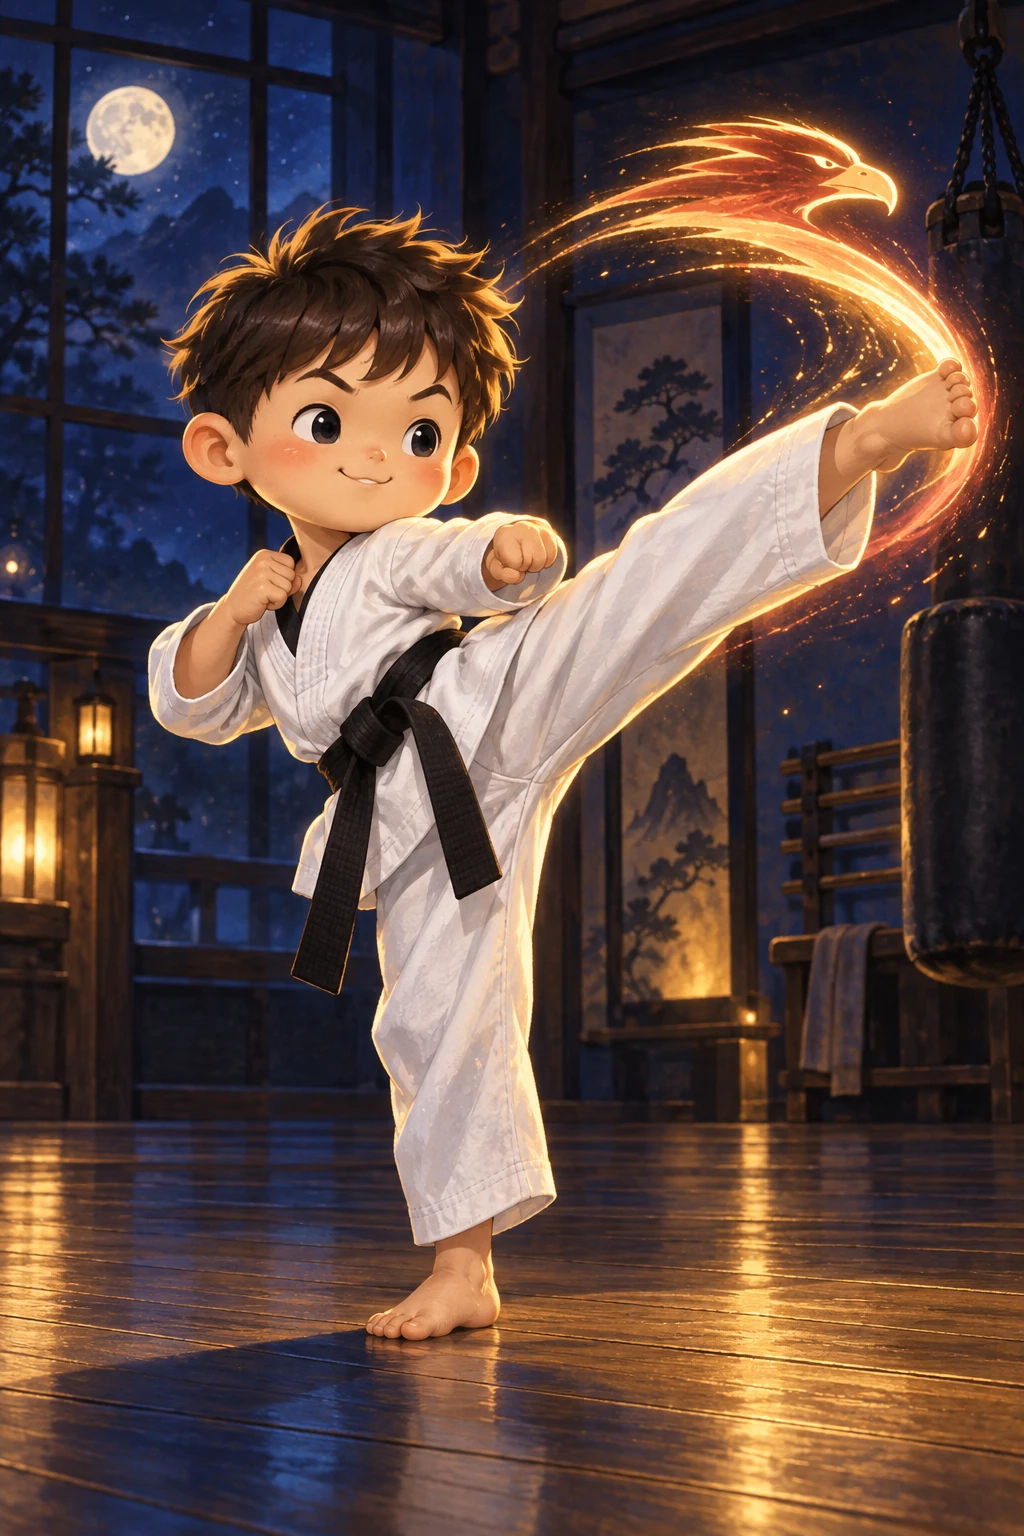
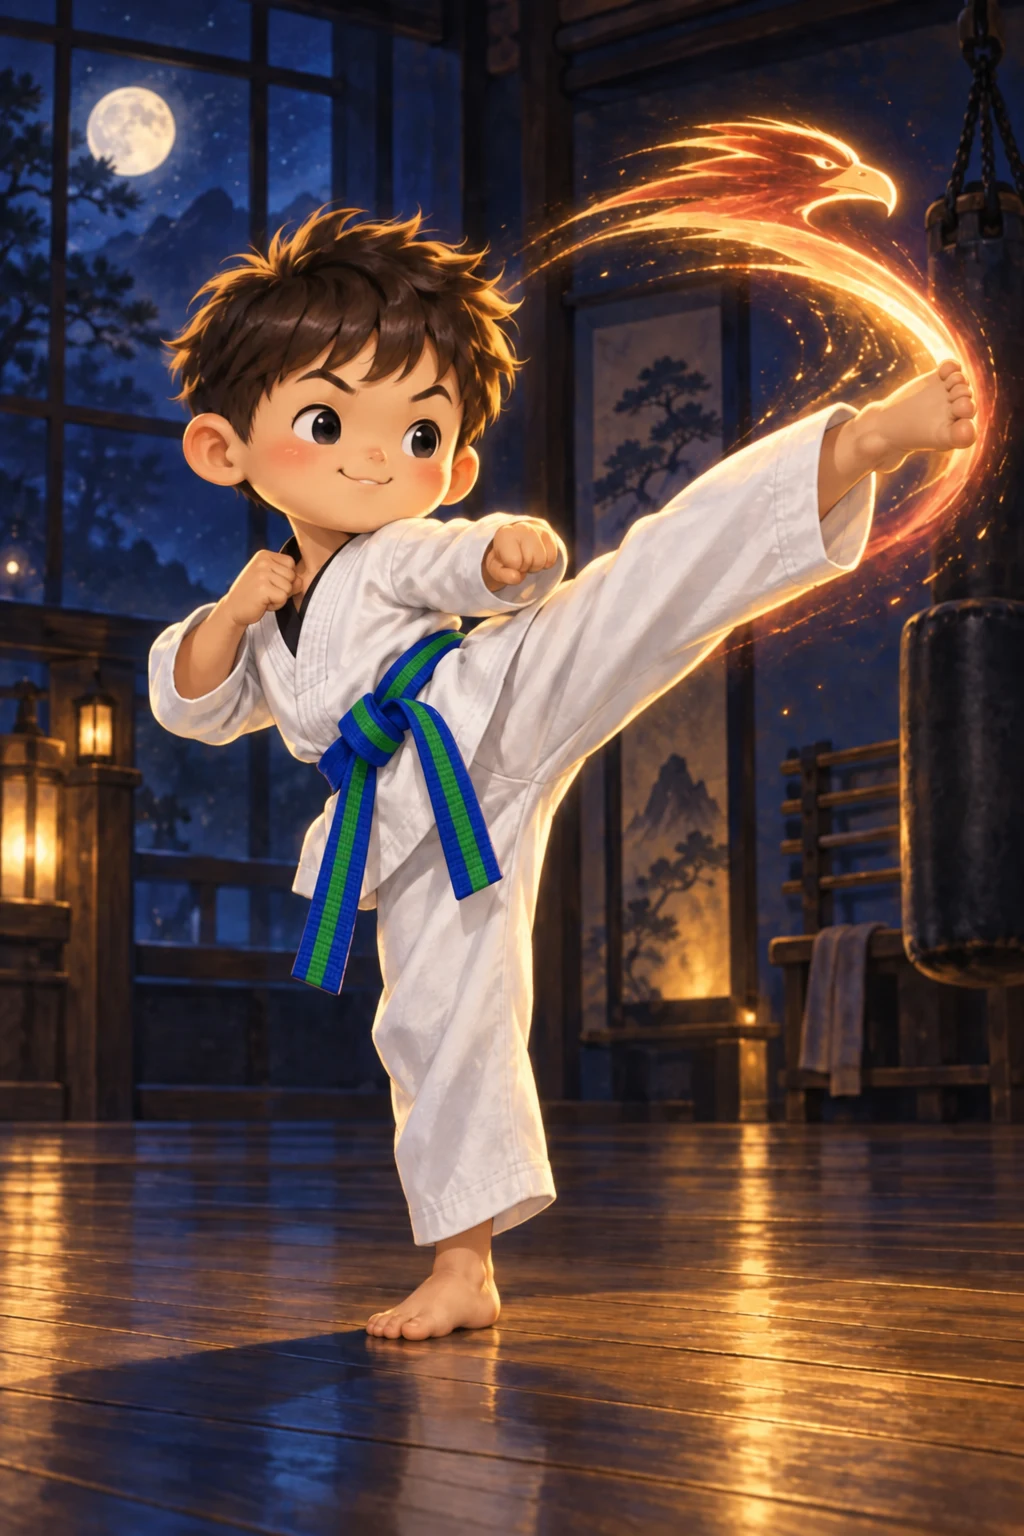
Refresh Jaewing and Taeo portraits and advance cache to v105

diff --git a/cards/index.html b/cards/index.html
@@ -17,8 +17,8 @@ document.addEventListener('dblclick',s,{passive:false});})();</script>
   <link rel="icon" href="../icon.png">
   <link rel="apple-touch-icon" href="../icon.png">
   <link rel="manifest" href="../manifest.json">
-<link rel="stylesheet" href="styles.css?v=60">
-<link rel="stylesheet" href="campaign.css?v=60">
+<link rel="stylesheet" href="styles.css?v=62">
+<link rel="stylesheet" href="campaign.css?v=62">
 </head>
 <body>
   <div class="sky" aria-hidden="true">
@@ -207,15 +207,15 @@ document.addEventListener('dblclick',s,{passive:false});})();</script>
   </dialog>
 
   <noscript>J&amp;T Adventure를 하려면 JavaScript를 켜 주세요.</noscript>
-<script src="js/engine.js?v=60" defer></script>
-<script src="js/audio.js?v=60" defer></script>
-<script src="js/card-view.js?v=60" defer></script>
-<script src="js/vfx-recipes.js?v=60" defer></script>
-<script src="js/story-gates.js?v=60" defer></script>
-<script src="js/campaign.js?v=60" defer></script>
-<script src="js/campaign-ui.js?v=60" defer></script>
-<script src="js/combat-cinema.js?v=60" defer></script>
-<script src="js/app.js?v=60" defer></script>
+<script src="js/engine.js?v=62" defer></script>
+<script src="js/audio.js?v=62" defer></script>
+<script src="js/card-view.js?v=62" defer></script>
+<script src="js/vfx-recipes.js?v=62" defer></script>
+<script src="js/story-gates.js?v=62" defer></script>
+<script src="js/campaign.js?v=62" defer></script>
+<script src="js/campaign-ui.js?v=62" defer></script>
+<script src="js/combat-cinema.js?v=62" defer></script>
+<script src="js/app.js?v=62" defer></script>
   <script>
     if ("serviceWorker" in navigator) {
       window.addEventListener("load", function () {

diff --git a/cards/tests/pwa.test.js b/cards/tests/pwa.test.js
@@ -114,9 +114,9 @@ test("all story episode mp3 files match the service worker fallback list", () =>
   }
 });
 
-test("cache generation v101 preserves exact v60 card assets and canonical navigation aliases", () => {
-  assert.equal(sw.CACHE_VERSION, "v104");
-  assert.match(sw.STATIC_CACHE, /^adventure-box-v104-/);
+test("cache generation v105 preserves exact v62 card assets and canonical navigation aliases", () => {
+  assert.equal(sw.CACHE_VERSION, "v105");
+  assert.match(sw.STATIC_CACHE, /^adventure-box-v105-/);
   const studioImages = fs.readdirSync(path.join(siteRoot, "princess/assets/studio-v3")).filter(name => /\.(webp|jpg)$/.test(name));
   assert.equal(studioImages.length, 95);
   for (const name of studioImages) assert.ok(sw.OPTIONAL_SHELL.includes("./princess/assets/studio-v3/" + name), name);
@@ -132,7 +132,7 @@ test("cache generation v101 preserves exact v60 card assets and canonical naviga
     assert.ok(sw.OPTIONAL_SHELL.includes("./princess/assets/bodies-v4/body-" + id + ".webp"));
   }
   for (const asset of ["styles.css", "campaign.css", "engine.js", "audio.js", "card-view.js", "vfx-recipes.js", "story-gates.js", "campaign.js", "campaign-ui.js", "combat-cinema.js", "app.js"]) {
-    assert.ok(sw.CORE_SHELL.some(entry => entry.endsWith(asset + "?v=60")), asset);
+    assert.ok(sw.CORE_SHELL.some(entry => entry.endsWith(asset + "?v=62")), asset);
   }
   assert.doesNotMatch(swSource, /\.\/cards\/[^"\n]+\?v=(?:19|2\d|30|31)|adventure-box-v(?:19|2\d|3\d|4\d|5\d|6[0-5])-/);
   assert.deepEqual(sw.VFX_ART_FILES, [

diff --git a/sw.js b/sw.js
@@ -1,7 +1,7 @@
 "use strict";
 
 // Advance this generation whenever a shared shell or optional game's immutable assets change.
-const CACHE_VERSION = "v104";
+const CACHE_VERSION = "v105";
 const CACHE_PREFIX = "adventure-box-";
 const STATIC_CACHE = `${CACHE_PREFIX}${CACHE_VERSION}-static`;
 const RUNTIME_CACHE = `${CACHE_PREFIX}${CACHE_VERSION}-runtime`;
@@ -148,19 +148,19 @@ const CORE_SHELL = [
   "./story/index.html",
   "./cards/",
   "./cards/index.html",
-  "./cards/styles.css?v=60",
+  "./cards/styles.css?v=62",
   "./math/assets/jaei-family-v4.webp",
-  "./cards/campaign.css?v=60",
+  "./cards/campaign.css?v=62",
   "./cards/cards.json",
-  "./cards/js/engine.js?v=60",
-  "./cards/js/audio.js?v=60",
-  "./cards/js/card-view.js?v=60",
-  "./cards/js/vfx-recipes.js?v=60",
-  "./cards/js/story-gates.js?v=60",
-  "./cards/js/campaign.js?v=60",
-  "./cards/js/campaign-ui.js?v=60",
-  "./cards/js/app.js?v=60",
-  "./cards/js/combat-cinema.js?v=60",
+  "./cards/js/engine.js?v=62",
+  "./cards/js/audio.js?v=62",
+  "./cards/js/card-view.js?v=62",
+  "./cards/js/vfx-recipes.js?v=62",
+  "./cards/js/story-gates.js?v=62",
+  "./cards/js/campaign.js?v=62",
+  "./cards/js/campaign-ui.js?v=62",
+  "./cards/js/app.js?v=62",
+  "./cards/js/combat-cinema.js?v=62",
 ];
 
 // Existing games are precached as best-effort shells. A missing optional asset

diff --git a/cards/tests/taeo-belt.test.js b/cards/tests/taeo-belt.test.js
@@ -1,0 +1,12 @@
+"use strict";
+const test=require('node:test'),assert=require('node:assert/strict'),fs=require('node:fs'),path=require('node:path'),vm=require('node:vm');
+const root=path.resolve(__dirname,'..');
+test('Taeo belt quiz uses the clarified blue base with green stripe, not a black belt',()=>{
+ const box={window:{}};vm.runInNewContext(fs.readFileSync(path.join(root,'js/story-gates.js'),'utf8'),box);
+ const bank=box.window.CardStoryGates.all.filter(q=>q.cardId==='taeo'),q=bank.find(q=>q.id==='taeo-belt');
+ assert.equal(bank.length,5);assert.equal(q.correctChoiceId,'blue-green');assert.equal(q.choices.find(c=>c.id===q.correctChoiceId).text,'파란 바탕에 초록 줄이 있는 띠');
+ assert.ok(q.source.refs.some(ref=>ref.includes('도복은 흰색')));
+ const png=fs.readFileSync(path.join(root,'art/taeo.png'));assert.equal(png.readUInt32BE(16),1024);assert.equal(png.readUInt32BE(20),1536);
+ assert.equal(fs.readFileSync(path.join(root,'art/taeo.webp')).toString('ascii',8,12),'WEBP');
+ const campaign=fs.readFileSync(path.join(root,'js/campaign-ui.js'),'utf8');assert.match(campaign,/\["appa", "eomma", "jaei", "taeo"\]/);
+});

diff --git a/cards/tests/collection-compact.test.js b/cards/tests/collection-compact.test.js
@@ -244,9 +244,9 @@ test("양쪽 전투 카드가 같은 전투 정보 렌더러를 사용하고 카
   assert.match(app, /syncBattleCard\(dom\.enemyCardSlot/);
   assert.match(app, /CardView\.create\(side\.card, \{[\s\S]*?compact: true/);
   assert.match(viewSource, /else if \(options\.compact\) \{[\s\S]*?crown, facts, art/);
-  assert.equal((html.match(/\?v=60/g) || []).length, 11);
+  assert.equal((html.match(/\?v=62/g) || []).length, 11);
   assert.doesNotMatch(html, /\?v=(?:25|26|27|28|29|30|31)/);
-  assert.equal((sw.match(/\.\/cards\/[^"\n]+\?v=60/g) || []).length, 11);
+  assert.equal((sw.match(/\.\/cards\/[^"\n]+\?v=62/g) || []).length, 11);
 });
 
 test("오행 속성이 카드 클래스, 원화 배지와 접근성 이름에 함께 드러난다", () => {

diff --git a/cards/js/story-gates.js b/cards/js/story-gates.js
@@ -824,8 +824,8 @@
       ["가족 확인 2026-09-09"]),
     question("taeo-belt", "taeo",
       "태오가 태권도복에 두른 띠는 무슨 색인가요?",
-      [["black", "검은띠"], ["yellow", "노란띠"], ["white", "흰띠"]], "black",
-      ["가족 확인 2026-09-09"]),
+      [["blue-green", "파란 바탕에 초록 줄이 있는 띠"], ["black", "검은띠"], ["white", "흰띠"]], "blue-green",
+      ["가족 확인 2026-09-13: 도복은 흰색, 띠는 파란 바탕에 초록 줄"]),
     question("taeo-first-move", "taeo",
       "태오가 별사탕 1개로 쓰는 기술은 무엇인가요?",
       [["feet", "발냄새 공격"], ["big", "대왕 방귀"], ["row", "연속 방귀"]], "feet",

diff --git a/cards/tests/integration.test.js b/cards/tests/integration.test.js
@@ -171,9 +171,9 @@ test("손패·원정 UI와 캐시 버전 43이 함께 배포되도록 묶여 있
   ["fragmentTray", "fragmentHand", "fragmentPreview"].forEach((id) => {
     assert.match(html, new RegExp('id="' + id + '"'));
   });
-  assert.match(html, /styles\.css\?v=60/);
+  assert.match(html, /styles\.css\?v=62/);
   ["engine", "audio", "card-view", "vfx-recipes", "story-gates", "campaign", "campaign-ui", "combat-cinema", "app"].forEach((file) => {
-    assert.match(html, new RegExp("js/" + file + "\\.js\\?v=60"));
+    assert.match(html, new RegExp("js/" + file + "\\.js\\?v=62"));
   });
   assert.doesNotMatch(html, /\?v=(?:19|20|21|22|23|24|25|26|27|28|29|30|31)/);
 

diff --git a/cards/tests/campaign-ui.test.js b/cards/tests/campaign-ui.test.js
@@ -138,7 +138,7 @@ test("S2 module and styles are cached exactly once and load before the app",()=>
   const html=fs.readFileSync(path.join(__dirname,"../index.html"),"utf8");
   const sw=require("../../sw.js");
   for(const name of ["campaign.css","js/campaign.js","js/campaign-ui.js"]){
-    assert.equal(sw.CORE_SHELL.filter(item=>item==="./cards/"+name+"?v=60").length,1);
-    assert.ok(html.indexOf(name+"?v=60")<html.indexOf("js/app.js?v=60"));
+    assert.equal(sw.CORE_SHELL.filter(item=>item==="./cards/"+name+"?v=62").length,1);
+    assert.ok(html.indexOf(name+"?v=62")<html.indexOf("js/app.js?v=62"));
   }
 });

diff --git a/cards/tests/hub-english-feedback.test.js b/cards/tests/hub-english-feedback.test.js
@@ -308,7 +308,7 @@ test("recognizer alternatives can pass; display uses the first guess; session sh
 
 test("the hub clears stale permanent silence and the worker precaches every clip", () => {
   const sw = require("../../sw.js"), html = fs.readFileSync(path.join(__dirname, "../../game/index.html"), "utf8");
-  assert.equal(sw.CACHE_VERSION, "v104");
+  assert.equal(sw.CACHE_VERSION, "v105");
   assert.ok(sw.CORE_SHELL.includes("./assets/study/english-reading.js?v=11"));
   assert.ok(sw.CORE_SHELL.includes("./assets/study/praise/perfect-v2.wav"));
   assert.match(html, /english-reading\.js\?v=11/);

diff --git a/cards/latest.html b/cards/latest.html
@@ -18,7 +18,7 @@
       if("serviceWorker" in navigator){
         // A separate navigation path bypasses old canonical /cards/ HTML caches.
         // Updating the worker preserves localStorage, IndexedDB and saved progress.
-        const registration=await navigator.serviceWorker.register(new URL("../sw.js?v=101",location.href),{
+        const registration=await navigator.serviceWorker.register(new URL("../sw.js?v=105",location.href),{
           scope:new URL("../",location.href).href,updateViaCache:"none"
         });
         await registration.update();

diff --git a/cards/DESIGN-CARDS-FAMILY.md b/cards/DESIGN-CARDS-FAMILY.md
@@ -28,7 +28,7 @@
 | `appa` | 아빠 | 용기 | 땅 | 2 | 80 | 퇴근 후 힘내기 · `boost_20_below_half` | 목말 태우기 1★/10 · 간지럽히기 2★/20 `skip_next_enemy` |
 | `eomma` | 엄마 | 마법 | 나무 | 3 | 70 | 엄마 눈썰미 · `reduce_dmg_10` | 이제 그만! 1★/10 `weaken_next_20` · 정리정돈 2★/30 · 엄마의 한마디 3★/30 `skip_next_enemy` |
 
-**메가랩터킥.** 태오는 태권도를 하고 검은띠다. 별사탕 4개가 드는 필살 발차기를 넣었다. AI는 별을 4개까지 모으는 일이 드물어 승률이 59%로 그대로였다. 즉 **균형은 건드리지 않으면서 아이가 직접 모아서 쓸 때만 터지는 기술**이다. 다섯 살이 별을 아껴 큰 것을 쓰는 재미를 배우기에 알맞다. 4★ 기술은 제우스·포세이돈·우마왕과 같은 값이라 세기도 일관된다.
+**메가랩터킥.** 태오는 태권도를 하고 파란 바탕에 초록 줄이 있는 띠다. 별사탕 4개가 드는 필살 발차기를 넣었다. AI는 별을 4개까지 모으는 일이 드물어 승률이 59%로 그대로였다. 즉 **균형은 건드리지 않으면서 아이가 직접 모아서 쓸 때만 터지는 기술**이다. 다섯 살이 별을 아껴 큰 것을 쓰는 재미를 배우기에 알맞다. 4★ 기술은 제우스·포세이돈·우마왕과 같은 값이라 세기도 일관된다.
 
 **설계 의도.** 태오의 「연속 방귀」는 쓸수록 세지는 `dmg_stack_10`이다. 다섯 살이 같은 버튼을 반복해 누르는 습관이 그대로 전략이 된다. 재이는 첫 공격을 흘려보내고 상대를 약화시킨 뒤 큰 것을 터뜨리는 순서가 있어, 여덟 살이 순서를 세우는 재미를 갖는다. 아빠와 엄마는 상대 턴을 막는 기술을 하나씩 가져 어른답게 판을 정리한다.
 
@@ -197,17 +197,17 @@
 **디자인은 그대로 옮긴다.** `math/assets/jaei-characters-art.md`의 인물 묘사를 프롬프트에 그대로 넣는다. **얼굴·머리·키는 원본 디자인 그대로 두고, 옷만 아래로 바꾼다.**
 
 - **재이** — 어깨 아래까지 오는 갈색 생머리에 앞머리. **분홍 잠옷**(긴팔 상의와 긴바지 한 벌), 맨발이나 실내 슬리퍼.
-- **태오** — 짧은 갈색 머리. **흰 태권도복에 검은띠**. 도복 깃을 단정히 여미고 띠는 허리에 한 번 묶어 양끝이 늘어지게. 맨발.
+- **태오** — 짧은 갈색 머리. **흰 태권도복에 파란 바탕에 초록 줄이 있는 띠**. 도복 깃을 단정히 여미고 띠는 허리에 한 번 묶어 양끝이 늘어지게. 맨발.
 - **아빠** — **노란색 셔츠**, 회색 바지, 갈색 벨트.
 - **엄마** — **치타무늬 롱 원피스**, 낮은 옆 묶음 머리.
 
 **키 순서(아빠 > 엄마 > 재이 > 태오)는 바꾸지 않는다.**
 
-> **네 사람의 옷은 모두 일부러 다르다.** `math/assets/jaei-family-v4.webp`에서는 아빠 회색 셔츠, 엄마 연분홍 원피스, 재이 분홍 원피스, 태오 파란 옷이다. 2026-09-09 아버님 확인에 따라 **카드에서는 아빠 노란 셔츠, 엄마 치타무늬 원피스, 재이 분홍 잠옷, 태오 흰 태권도복에 검은띠**로 그린다. 수학 게임의 그림은 그대로 두므로 두 곳의 옷이 다르다. 착오가 아니니 되돌리지 말 것. 얼굴·머리·키는 양쪽이 같아야 한다.
+> **네 사람의 옷은 모두 일부러 다르다.** `math/assets/jaei-family-v4.webp`에서는 아빠 회색 셔츠, 엄마 연분홍 원피스, 재이 분홍 원피스, 태오 파란 옷이다. 2026-09-09 아버님 확인에 따라 **카드에서는 아빠 노란 셔츠, 엄마 치타무늬 원피스, 재이 분홍 잠옷, 태오 흰 태권도복에 파란 바탕에 초록 줄이 있는 띠**로 그린다. 수학 게임의 그림은 그대로 두므로 두 곳의 옷이 다르다. 착오가 아니니 되돌리지 말 것. 얼굴·머리·키는 양쪽이 같아야 한다.
 >
 > 치타무늬는 점이 촘촘하면 카드 크기에서 지저분해 보인다. 점을 크고 성기게, 바탕은 부드러운 베이지로 두어 멀리서도 무늬가 읽히게 그린다.
 >
-> 태권도복은 흰색이라 밝은 배경에 묻힌다. 배경을 어둡게 잡고 검은띠가 또렷이 보이게 한다. 띠는 태오를 알아보는 표시다.
+> 태권도복은 흰색이라 밝은 배경에 묻힌다. 배경을 어둡게 잡고 파란 바탕에 초록 줄이 있는 띠가 또렷이 보이게 한다. 띠는 태오를 알아보는 표시다.
 
 **화풍은 카드에 맞춘다.** 기존 51장은 `ART_DIRECTION.md`의 「별빛 서사화」다. 인형 질감 대신 그 톤으로 그리되, 얼굴 생김과 옷은 위 디자인을 지킨다. 아이가 자기 옷과 머리를 알아보는 것이 목적이다.
 
@@ -236,7 +236,7 @@
 
 가족 카드는 이야기 오디오가 없다. 그래서 **두 가지 원천만 쓴다.**
 
-1. 아버님이 확인해 주신 우리 집 사실. 지금까지 받은 것은 여섯이다. **재이는 VR 게임을 좋아한다. 태오는 어벤져스를 좋아한다. 아빠는 노란색 셔츠, 엄마는 치타무늬 원피스, 재이는 분홍 잠옷, 태오는 흰 태권도복에 검은띠 차림이다.** 태오는 태권도를 배우고 검은띠다.
+1. 아버님이 확인해 주신 우리 집 사실. 지금까지 받은 것은 여섯이다. **재이는 VR 게임을 좋아한다. 태오는 어벤져스를 좋아한다. 아빠는 노란색 셔츠, 엄마는 치타무늬 원피스, 재이는 분홍 잠옷, 태오는 흰 태권도복에 파란 바탕에 초록 줄이 있는 띠 차림이다.** 태오는 태권도를 배우고 파란 바탕에 초록 줄이 있는 띠다.
 2. **카드에 적혀 있는 사실.** 기술 이름, 특성 이름, 옷 색, 효과. 카드를 보면 답이 나오므로 틀릴 수가 없고, 아이가 자기 카드의 능력 설명을 읽게 되는 이점이 있다.
 
 지어낸 가족 이야기는 문항으로 쓰지 않는다. 아이가 진실을 아는데 게임이 다른 답을 정답이라고 하면 안 된다.
@@ -281,7 +281,7 @@
       ["가족 확인 2026-09-09"]),
     question("taeo-belt", "taeo",
       "태오가 태권도복에 두른 띠는 무슨 색인가요?",
-      [["black", "검은띠"], ["yellow", "노란띠"], ["white", "흰띠"]], "black",
+      [["blue-green", "파란 바탕에 초록 줄이 있는 띠"], ["yellow", "노란띠"], ["white", "흰띠"]], "blue-green",
       ["가족 확인 2026-09-09"]),
     question("taeo-first-move", "taeo",
       "태오가 별사탕 1개로 쓰는 기술은 무엇인가요?",
@@ -367,7 +367,7 @@
 8. 네 장 모두 필살기 문제가 열리고, 각 문항의 정답이 `cards.json`의 실제 기술 이름·비용·효과와 일치한다.
 9. `node --test "cards/tests/*.test.js"` 가 어벤져스 서비스워커 건을 뺀 전부 통과.
 10. **태오의 기술이 넷이라 대결 화면 버튼이 일곱 개가 된다.** 지금 최대는 셋(브레멘·손오공·아테나 등)이므로 태오가 처음이다. 폰 세로에서 버튼이 화면 밖으로 밀리거나 겹치지 않는지 반드시 확인한다. 밀리면 기술을 줄이지 말고 버튼 목록을 스크롤 가능하게 고친다.
-11. 태오 카드에서 검은띠가 또렷이 보인다. 138픽셀 컬렉션 카드에서도 태권도복임을 알아볼 수 있다.
+11. 태오 카드에서 파란 바탕에 초록 줄이 있는 띠가 또렷이 보인다. 138픽셀 컬렉션 카드에서도 태권도복임을 알아볼 수 있다.
 
 ## 10. 다음 캐릭터를 추가하는 방법
 
